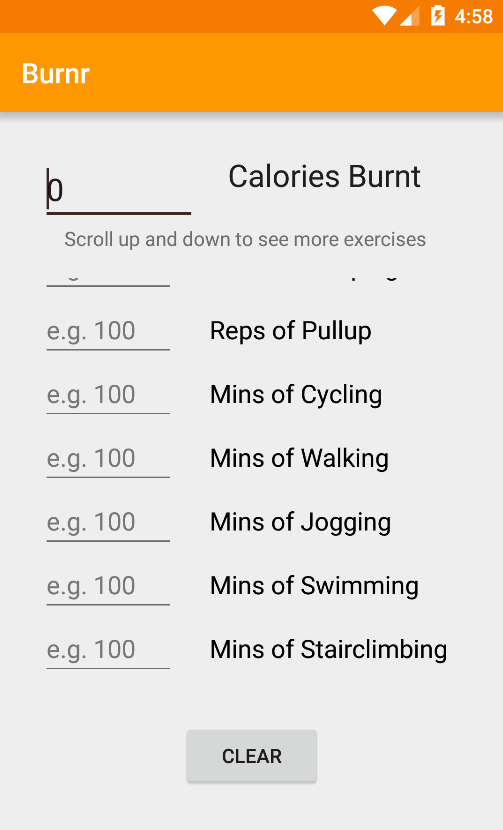
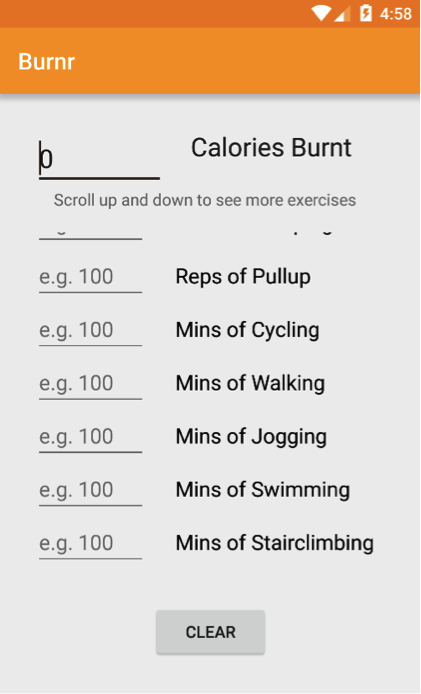
added horizontal

diff --git a/README.md b/README.md
@@ -12,9 +12,7 @@ See [your demo video title here] (https://link_to_your_video)
 
 ## Screenshots
 
-<img src="screenshots/fire.png" height="400" alt="Screenshot"/>
-
-<img src="screenshots/cover.png" height="400" alt="Screenshot"/>
+<img src="screenshots/fire.png" height="200" alt="Screenshot"/>
 
 <img src="screenshots/1.png" height="400" alt="Screenshot"/>
 
@@ -35,6 +33,10 @@ User can start typing next to any exercise. Instantly, the calories burnt and th
 <img src="screenshots/5.png" height="400" alt="Screenshot"/>
 
 User can use the clear button to clear the calories and repetition/minutes.
+
+<img src="screenshots/6.png" height="400" alt="Screenshot"/>
+
+Burnr also can be used in vertical and horizontal orientations.
 
 ## Acknowledgments
 
